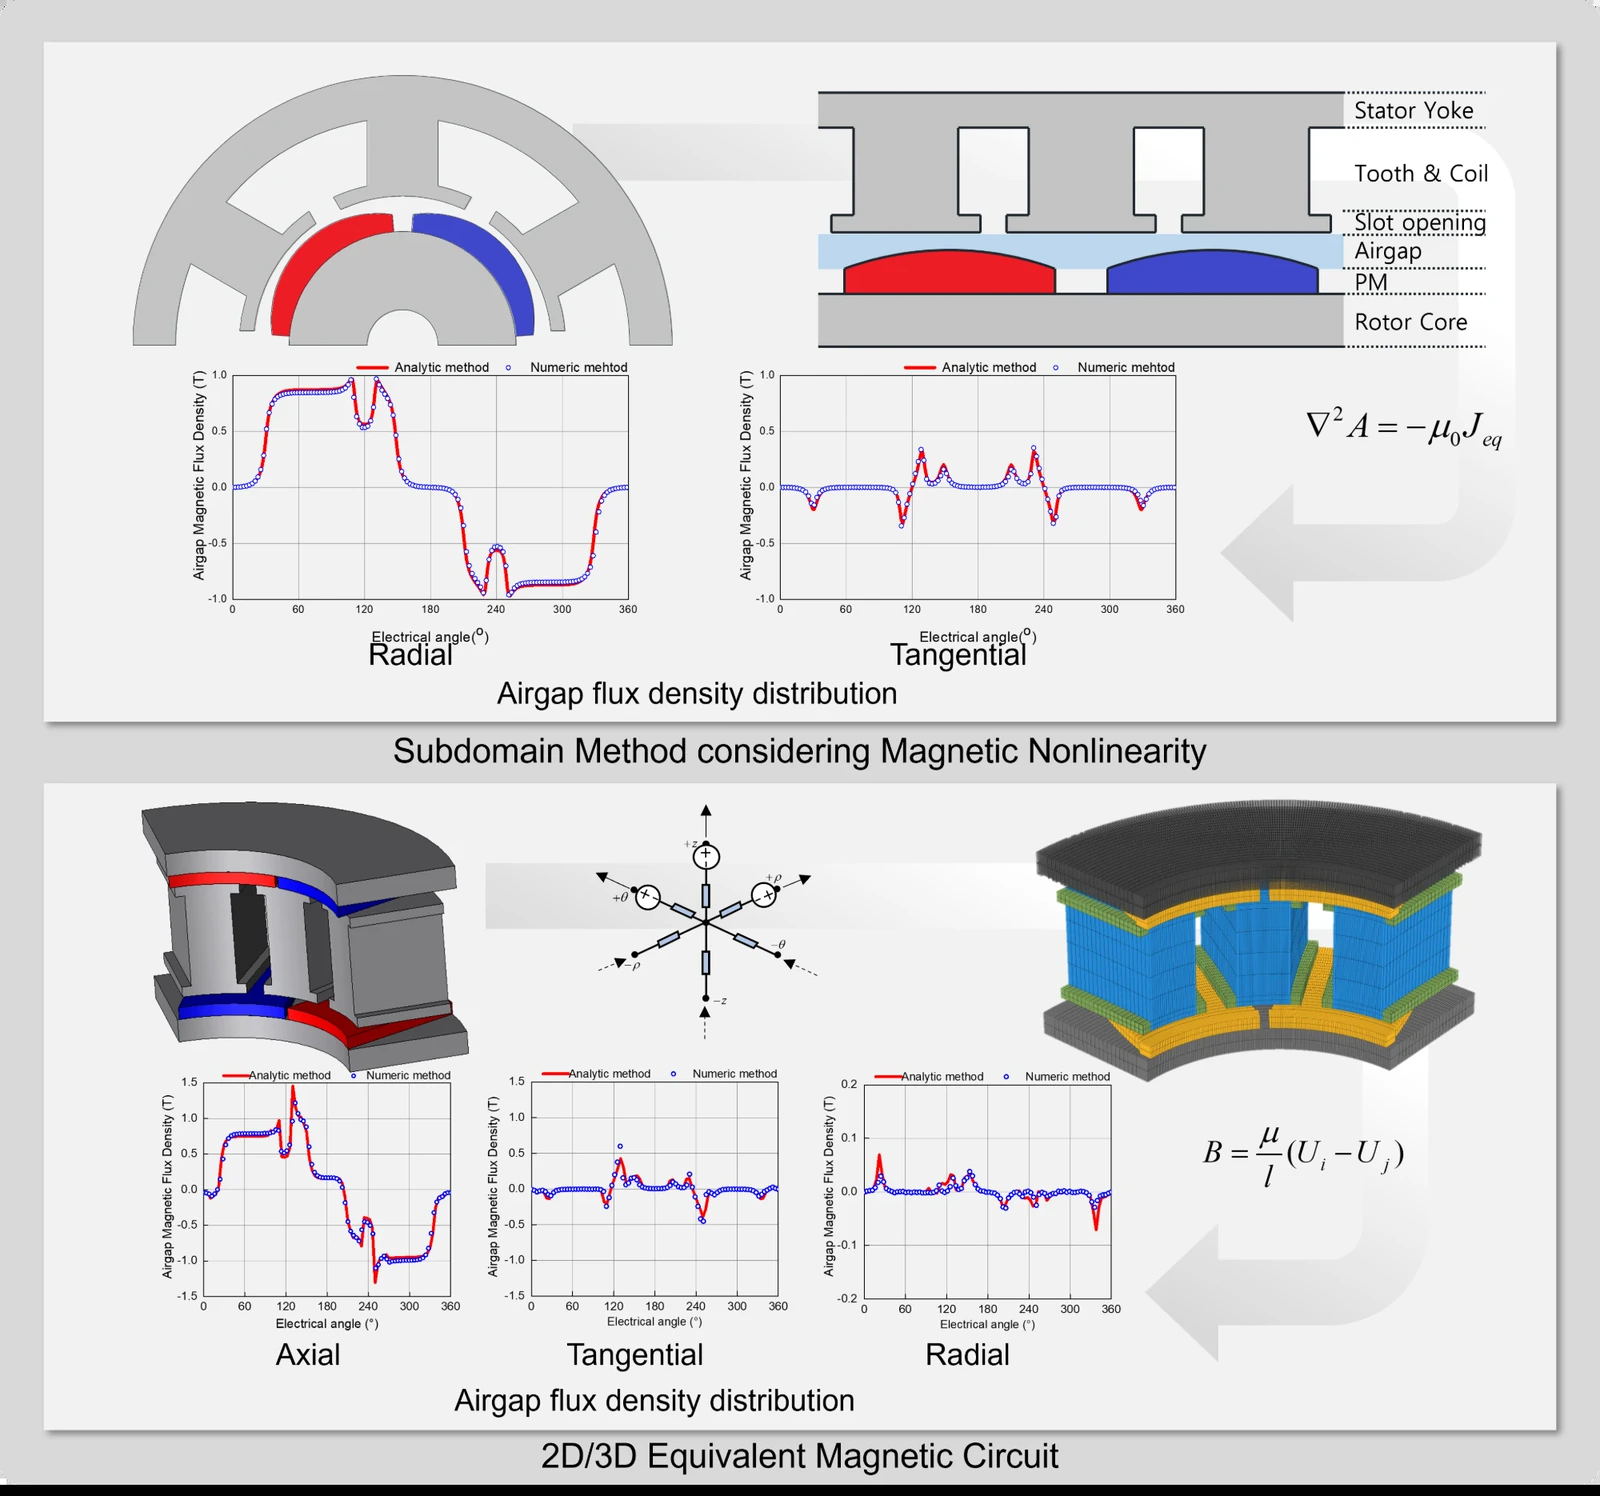
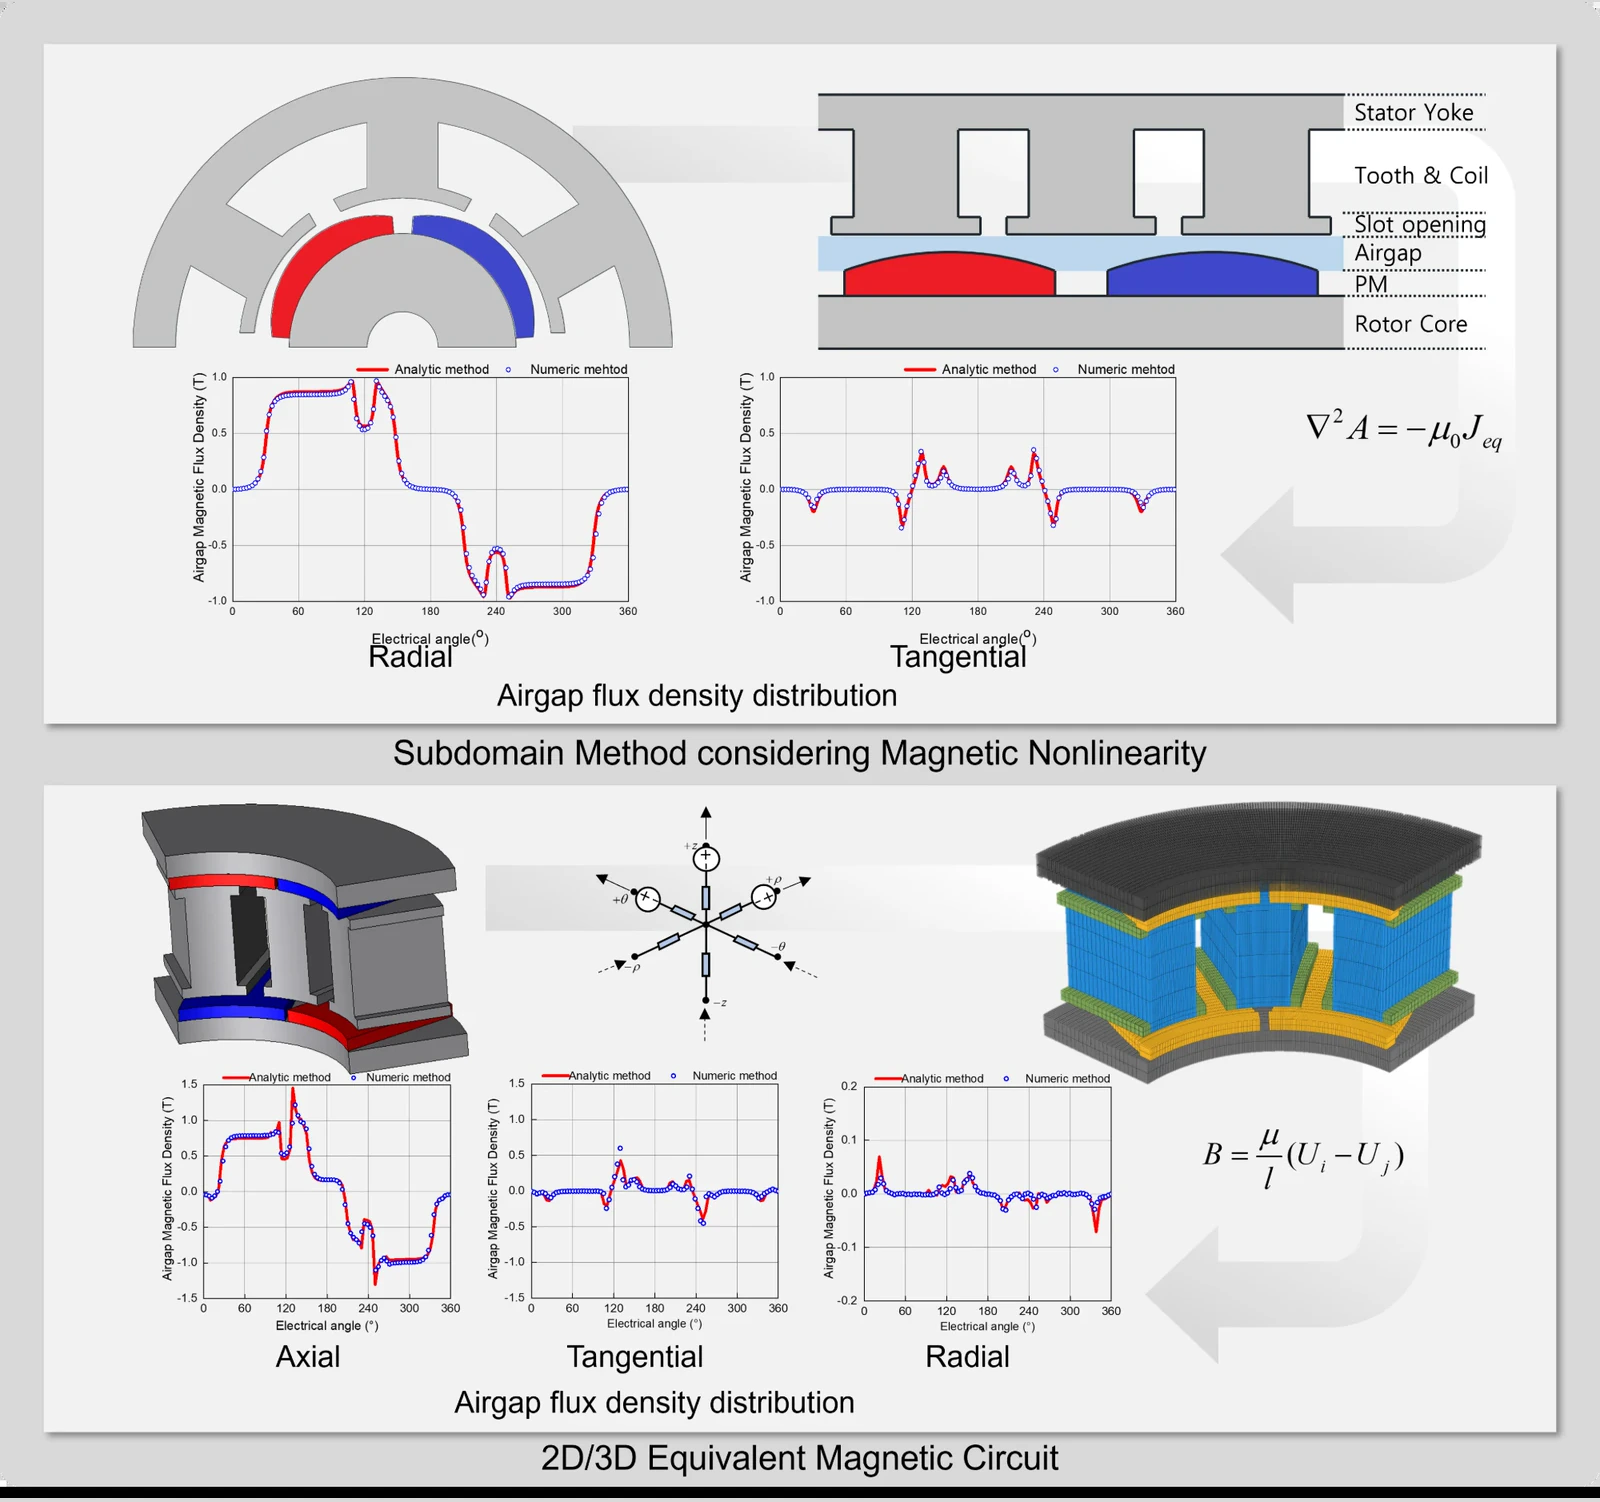
세부 그림 높이 정렬, 메뉴 이름 겹침 해소, 메인 카드 링크와 이전·다음 버튼 수정

diff --git a/js/render.js b/js/render.js
@@ -429,7 +429,9 @@ var Render = (function () {
        flex wrap 이라 분야가 홀수가 되어도 마지막 한 장이 가운데로 모인다 */
     var CARD_W = ' w-full sm:w-[calc(50%-10px)]';
     host.innerHTML = areas.map(function (a) {
-      return '<a href="research.html#' + esc(a.id) + '"' +
+      /* 그 분야의 상세로 바로 간다. research.html#<id> 로 보내면
+         해시를 알아보지 못해 Areas 탭 첫머리로만 떨어진다 */
+      return '<a href="research-area.html#' + esc(a.id) + '"' +
         ' class="card-hover group flex flex-col overflow-hidden rounded-lg border border-slate-200 bg-white hover:border-primary-mid' + CARD_W + '">' +
         /* 대표 그림이 21:9 다. 칸을 같은 비율로 두어야 좌우가 잘리지 않는다 */
         imageBox(a.image, a.title, 'aspect-[21/9]') +
@@ -893,13 +895,14 @@ var Render = (function () {
   /* --- 연구분야 상세 (research-area.html) -------------------------------
      주소의 #해시로 어느 분야인지 고른다. 해시가 없거나 모르는 값이면 첫 분야.
      common.js 가 해시를 INITIAL_HASH 로 떼어 두므로 그쪽을 먼저 본다 */
-  function researchAreaDetail() {
+  function researchAreaDetail(hashOverride) {
     var host = document.getElementById('area-detail');
     if (!host) return;
     var areas = visibleAreas();
     if (!areas.length) { host.innerHTML = emptyNote(); return; }
 
-    var hash = (typeof INITIAL_HASH !== 'undefined' && INITIAL_HASH) || window.location.hash;
+    var hash = hashOverride ||
+              (typeof INITIAL_HASH !== 'undefined' && INITIAL_HASH) || window.location.hash;
     var id = String(hash).replace(/^#/, '');
 
     var idx = 0;
@@ -1099,6 +1102,15 @@ var Render = (function () {
 
   function researchArea() {
     researchAreaDetail();
+
+    /* 이전·다음 버튼은 같은 문서의 해시만 바꾼다. 브라우저가 다시 읽지
+       않으므로 여기서 직접 새로 그린다. 화면은 맨 위에서 시작하고,
+       숨어 있던 요소를 다시 모아 검사해야 등장 연출이 살아난다 */
+    window.addEventListener('hashchange', function () {
+      researchAreaDetail(window.location.hash);
+      window.scrollTo(0, 0);
+      if (typeof Anim !== 'undefined' && Anim.refresh) Anim.refresh();
+    });
   }
 
   function research() {

diff --git a/data/site.js b/data/site.js
@@ -77,7 +77,7 @@ const SITE = {
     professor:  "Professor",
     current:    "Researchers",
     alumni:     "Alumni",
-    areas:      "Areas",
+    areas:      "Overview",
     equipment:  "Facilities",
     projects:   "Projects",
     journal:    "Journal",
@@ -91,7 +91,7 @@ const SITE = {
     professor:  "Professor",
     current:    "Researchers",
     alumni:     "Alumni",
-    overview:   "Overview",
+    overview:   "At a Glance",
     areas:      "Research Areas",
     applications: "Applications",
     equipment:  "Facilities",
